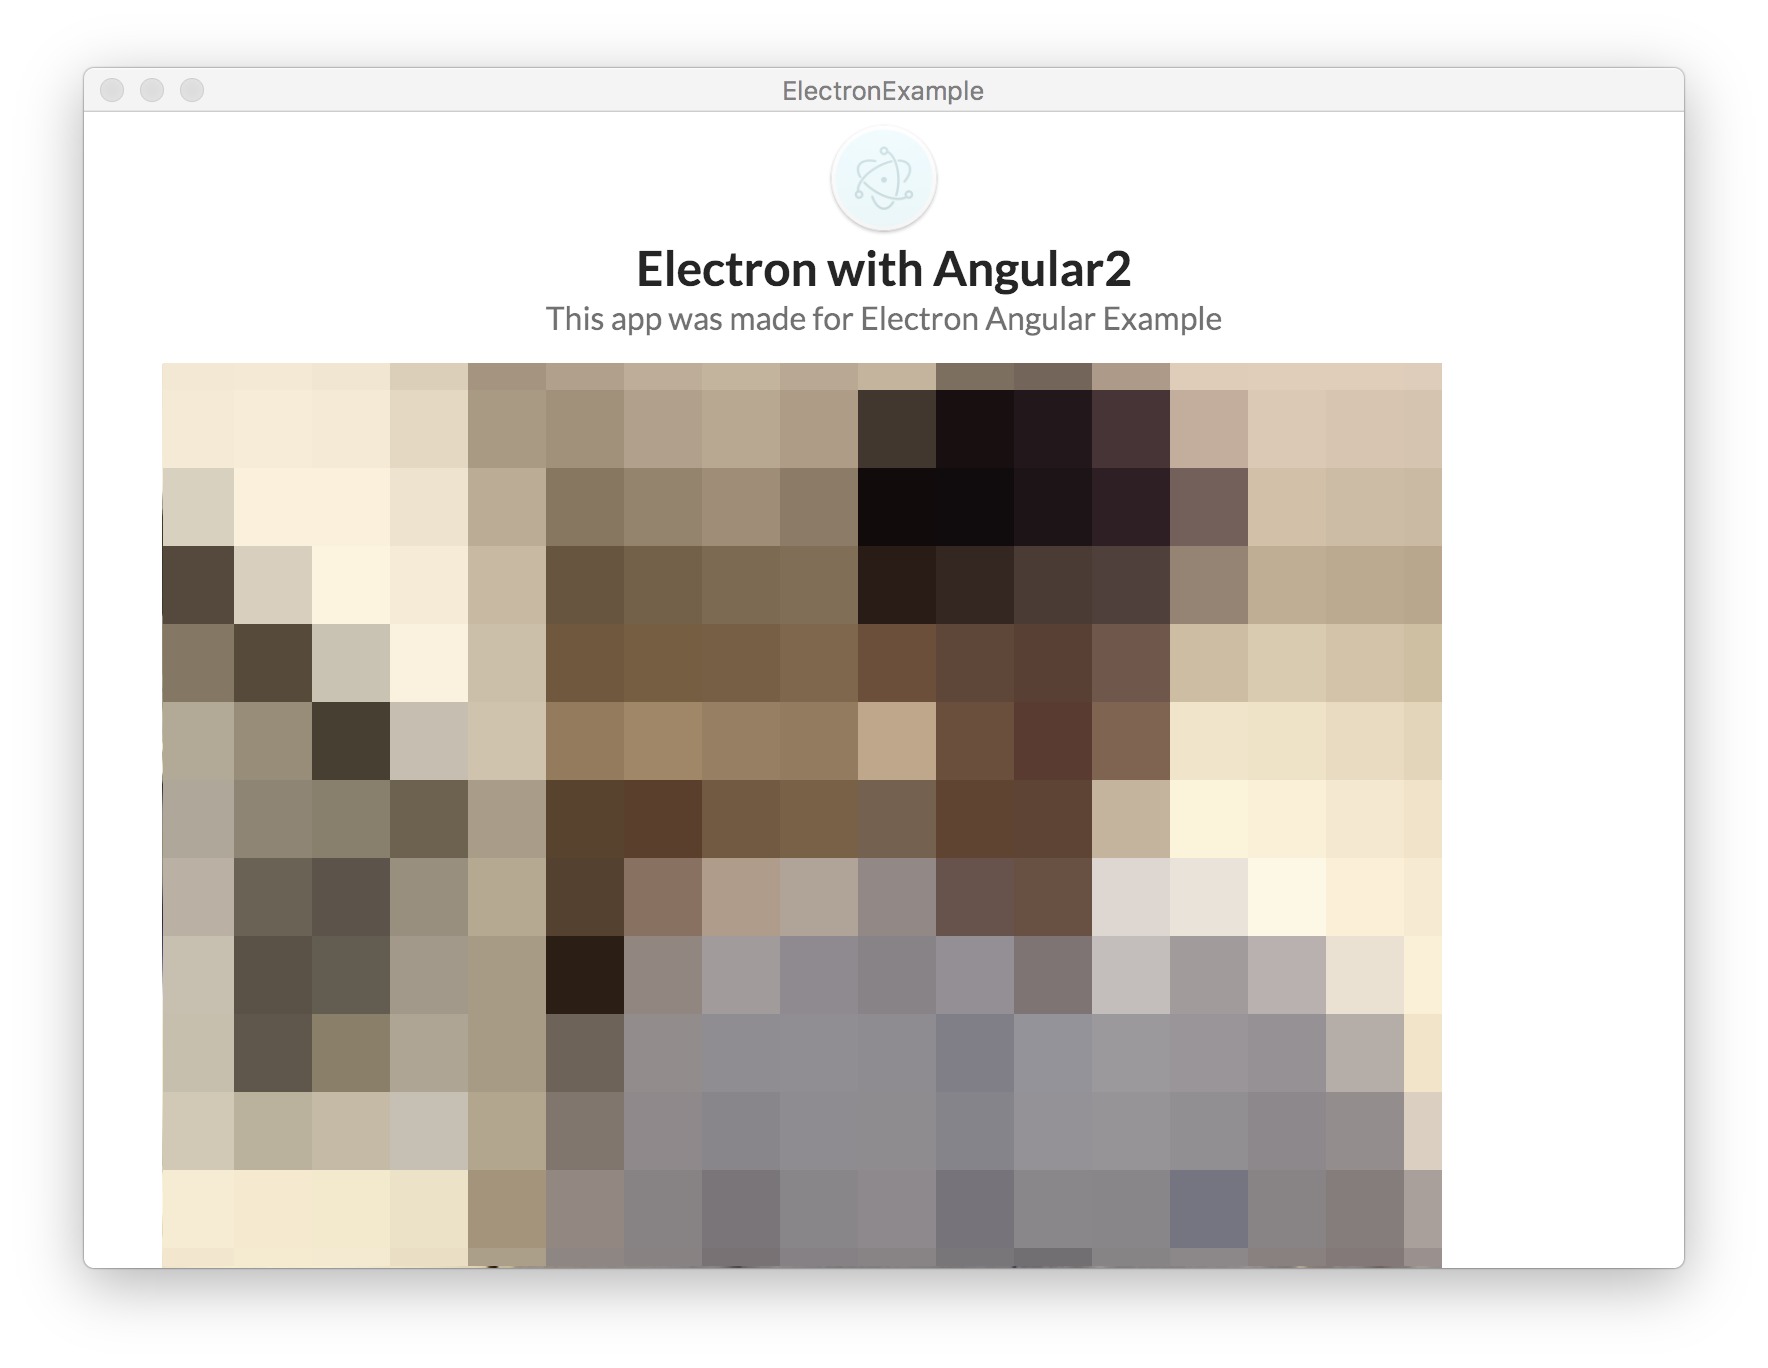
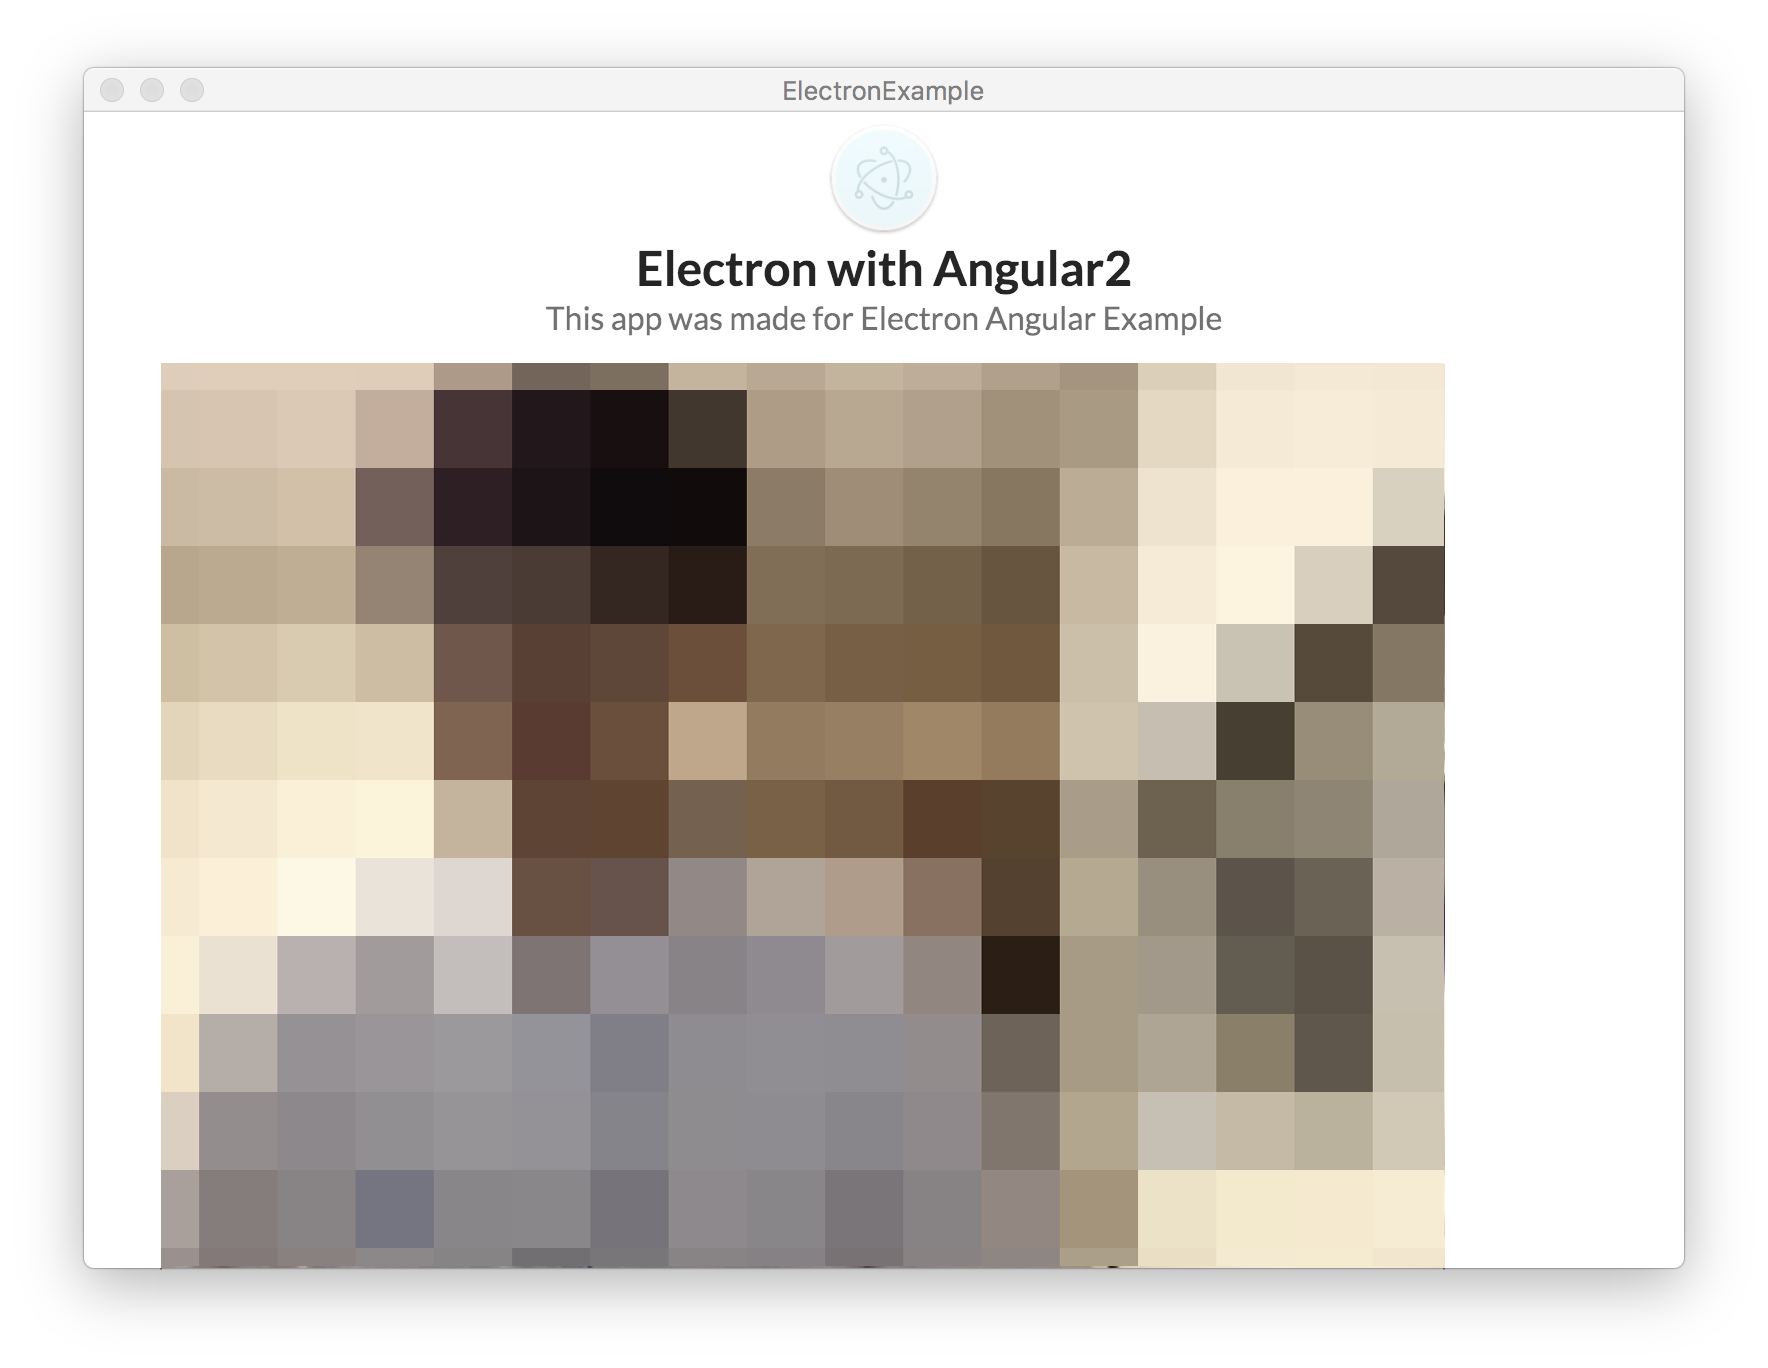
Update chapter5

diff --git a/chapter5.md b/chapter5.md
@@ -92,3 +92,5 @@ ngAfterViewInit() {
   transform: scaleX(-1);
 }
 ```
+
+![](./assets/capture/webcam_reverse.png)
